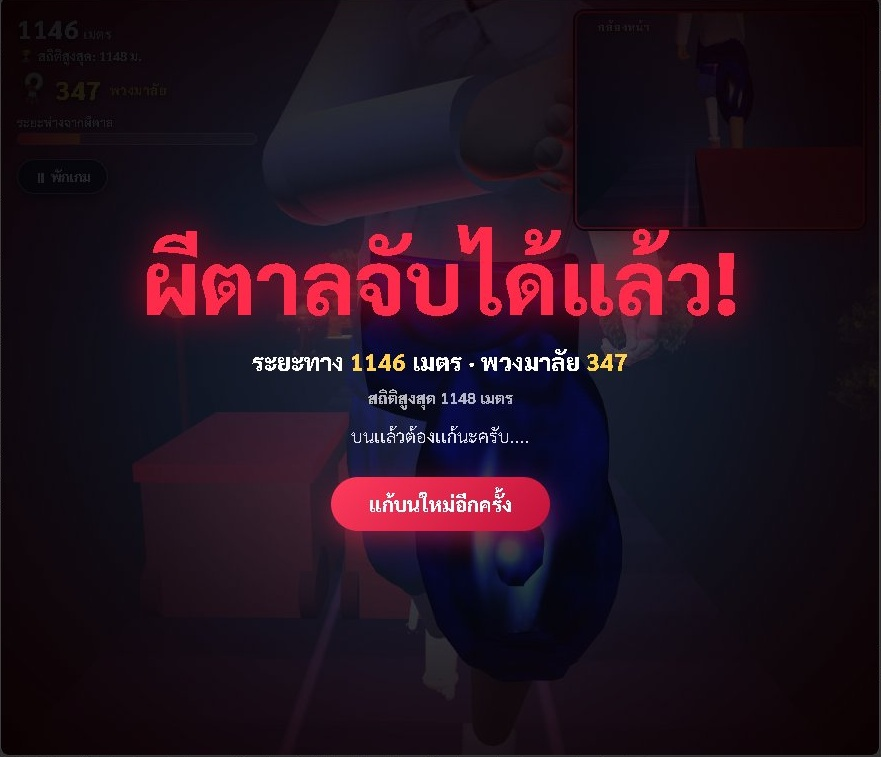
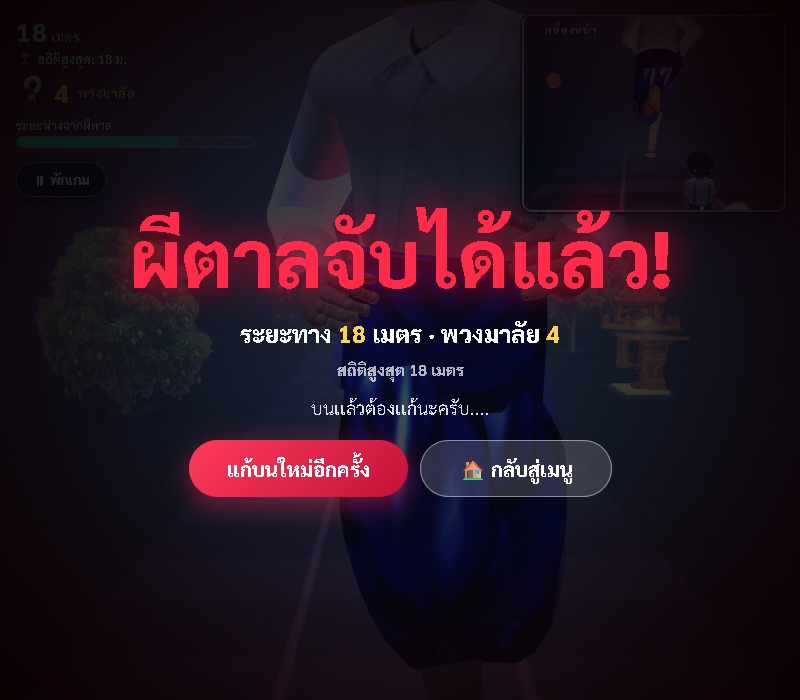
docs: update gameplay showcase preview screenshots with latest Thai student runner, golden shrine, and return to menu UI

diff --git a/game.js b/game.js
@@ -564,6 +564,8 @@ function goToMenu() {
   ui.hint.style.display = 'none';
   ui.menu.style.display = 'flex';
 }
+window.triggerStart = start;
+window.triggerDie = die;
 function die() {
   paused = false;
   ui.pauseOverlay.style.display = 'none';

diff --git a/README.md b/README.md
@@ -42,19 +42,19 @@
       <img src="Image/preview-intro.jpg" alt="ฉากบนบานหน้าศาล" style="border-radius: 8px; width: 100%; object-fit: cover;" />
       <br /><br />
       <b>⛩ ฉากเปิดไหว้ศาลเจ้าพ่อตาล</b><br>
-      <sub>ก้มกราบขอพรพร้อมเครื่องเซ่นไหว้แฟนต้าแดง พวงมาลัย และผีตาลที่ยืนชะโงกแอบดูอยู่ด้านหลัง</sub>
+      <sub>น้องนักเรียนประถมก้มกราบขอพรหน้าศาลพระภูมิสีทองคู่ พร้อมเครื่องเซ่นแฟนต้าแดง พวงมาลัย และผีตาลยืนจ้องอยู่ข้างศาล</sub>
     </td>
     <td align="center" width="33%">
-      <img src="Image/preview-gameplay.jpg" alt="ระบบวิ่ง 3 เลนพร้อมกล้องหน้า PiP" style="border-radius: 8px; width: 100%; object-fit: cover;" />
+      <img src="Image/preview-gameplay.jpg" alt="ระบบวิ่ง 3 เลนพร้อมกล้องส่องหลัง PiP" style="border-radius: 8px; width: 100%; object-fit: cover;" />
       <br /><br />
-      <b>🏃♂ วิ่ง 3 เลน & กล้องหน้า PiP</b><br>
-      <sub>หลบสิ่งกีดขวาง เก็บพวงมาลัยดอกมะลิ พร้อมหน้าต่างกล้องหลังตรวจจับการเข้าประชิดตัวแบบเรียลไทม์</sub>
+      <b>🏃♂ น้องนักเรียนวิ่ง 3 เลน & กล้องหลัง PiP</b><br>
+      <sub>พาน้องนักเรียนสับตีนแตกหลบสิ่งกีดขวาง เก็บพวงมาลัยมะลิ พร้อมหน้าต่างกล้องหลังส่องผีตาลวิ่งตามแบบเรียลไทม์</sub>
     </td>
     <td align="center" width="33%">
-      <img src="Image/preview-gameover.jpg" alt="ฉากจบเมื่อผีตาลจับได้" style="border-radius: 8px; width: 100%; object-fit: cover;" />
+      <img src="Image/preview-gameover.jpg" alt="ฉากจบเมื่อผีตาลจับได้และปุ่มเมนู" style="border-radius: 8px; width: 100%; object-fit: cover;" />
       <br /><br />
       <b>😱 ผีตาลจับได้แล้ว!</b><br>
-      <sub>กระโดดสะดุดจนโดนผีตาลจับพร้อมเสียง Jump Scare หลอนสะพรึง รายงานสถิติระยะทางและจำนวนพวงมาลัย</sub>
+      <sub>ฉาก Jump Scare เมื่อผีตาลประชิดตัว รายงานสถิติระยะทางและพวงมาลัย พร้อมปุ่ม "แก้บนใหม่อีกครั้ง" และปุ่ม "🏠 กลับสู่เมนู"</sub>
     </td>
   </tr>
 </table>
